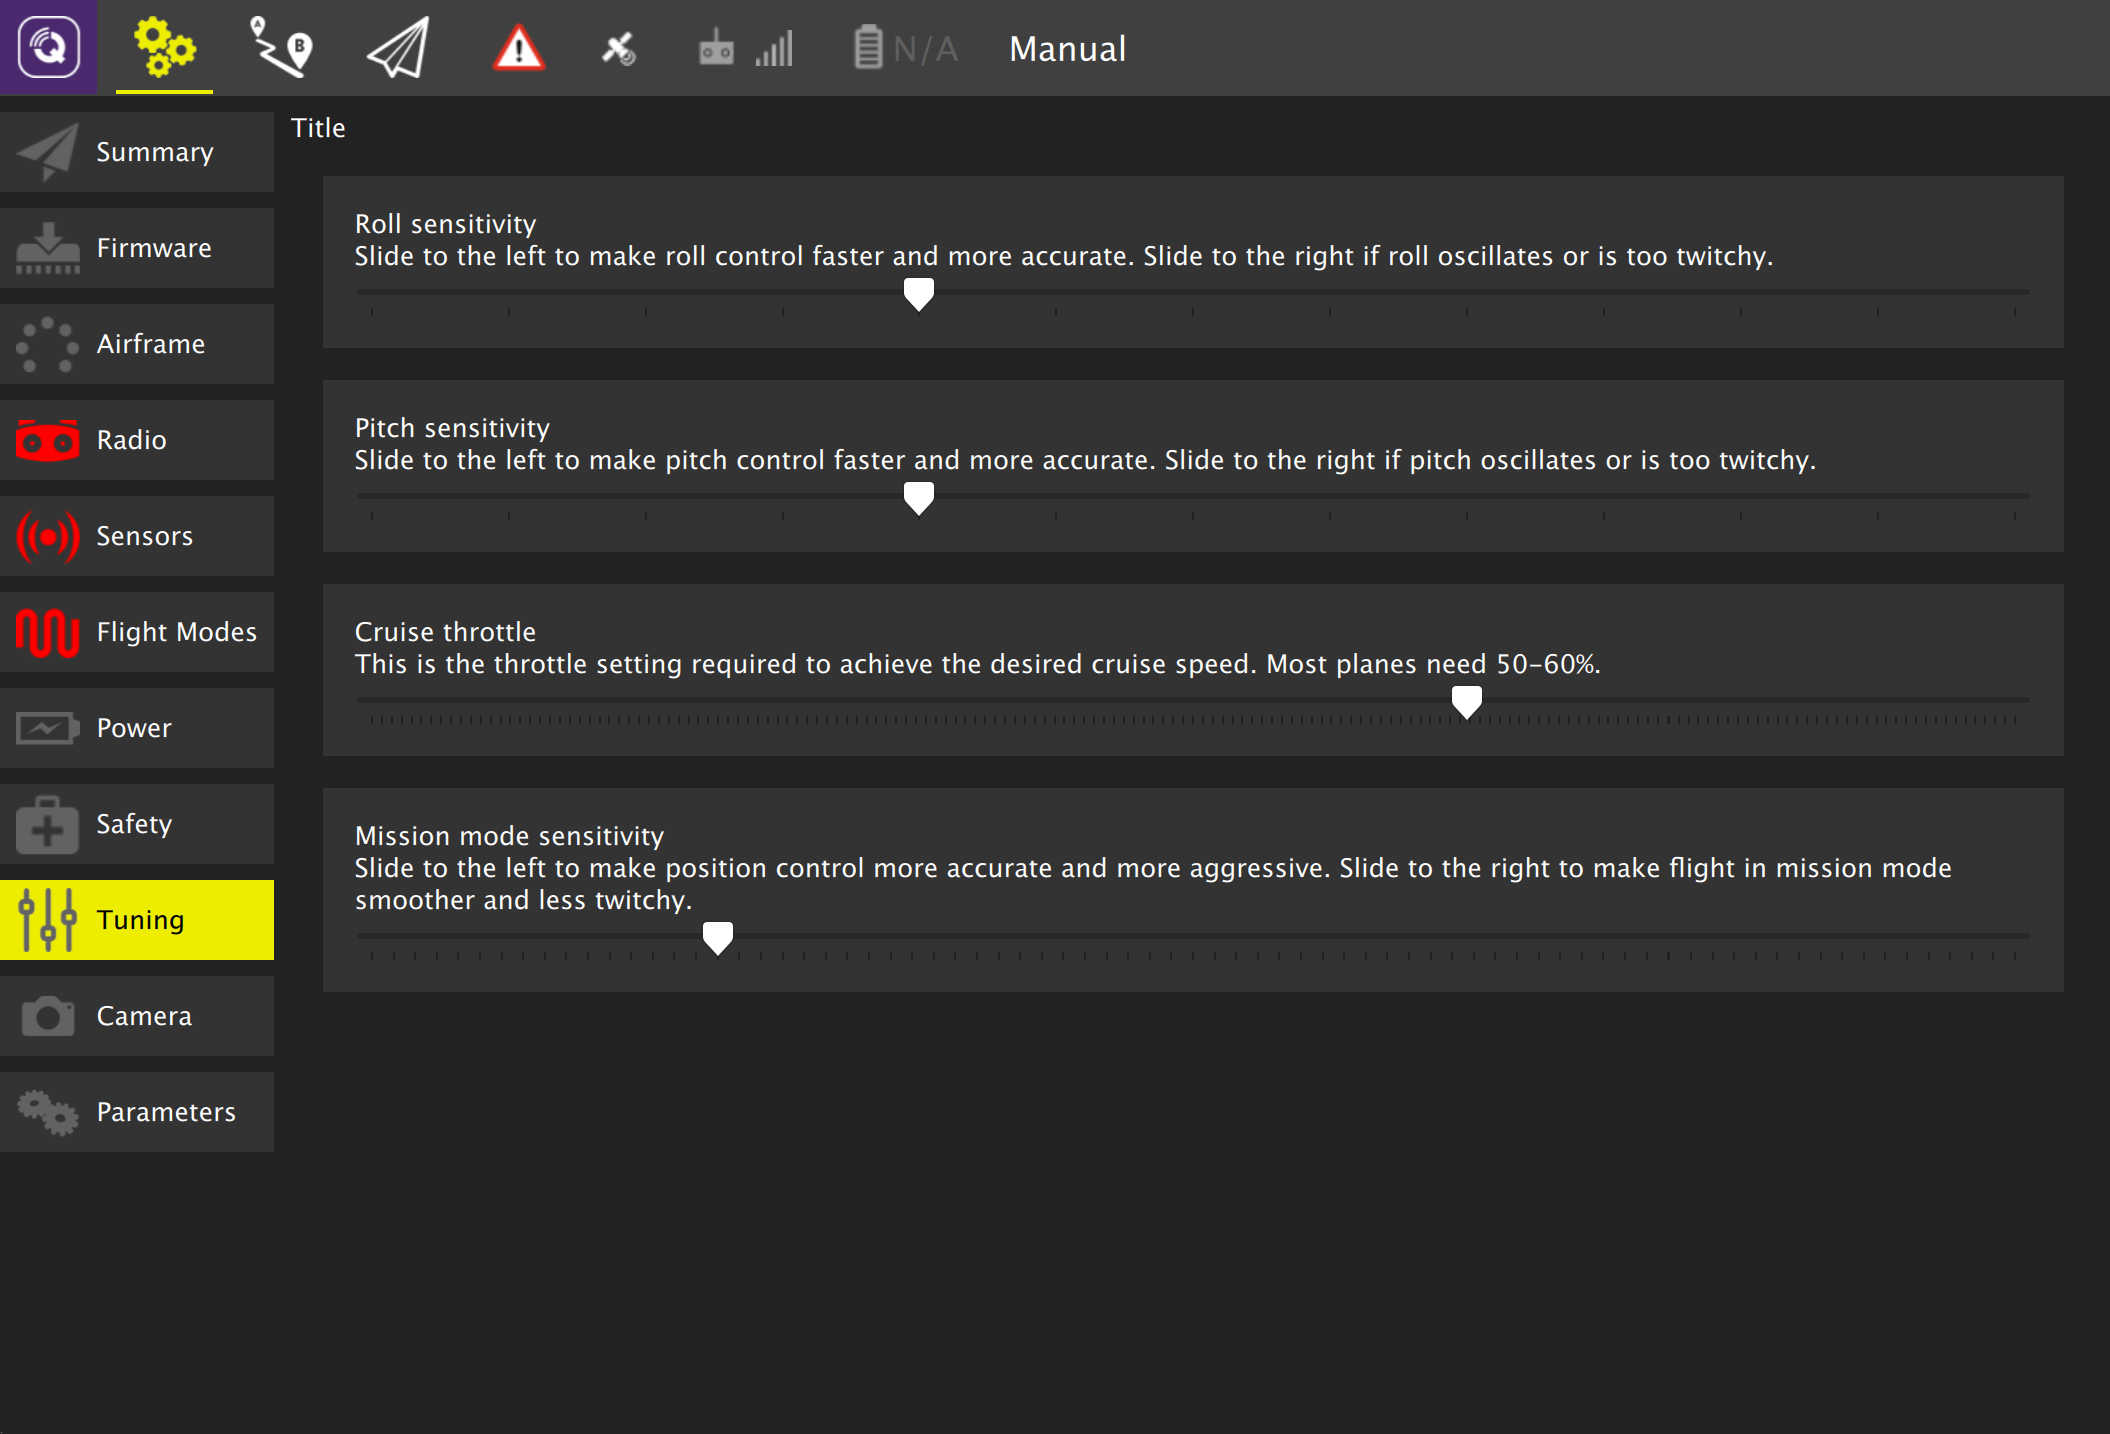
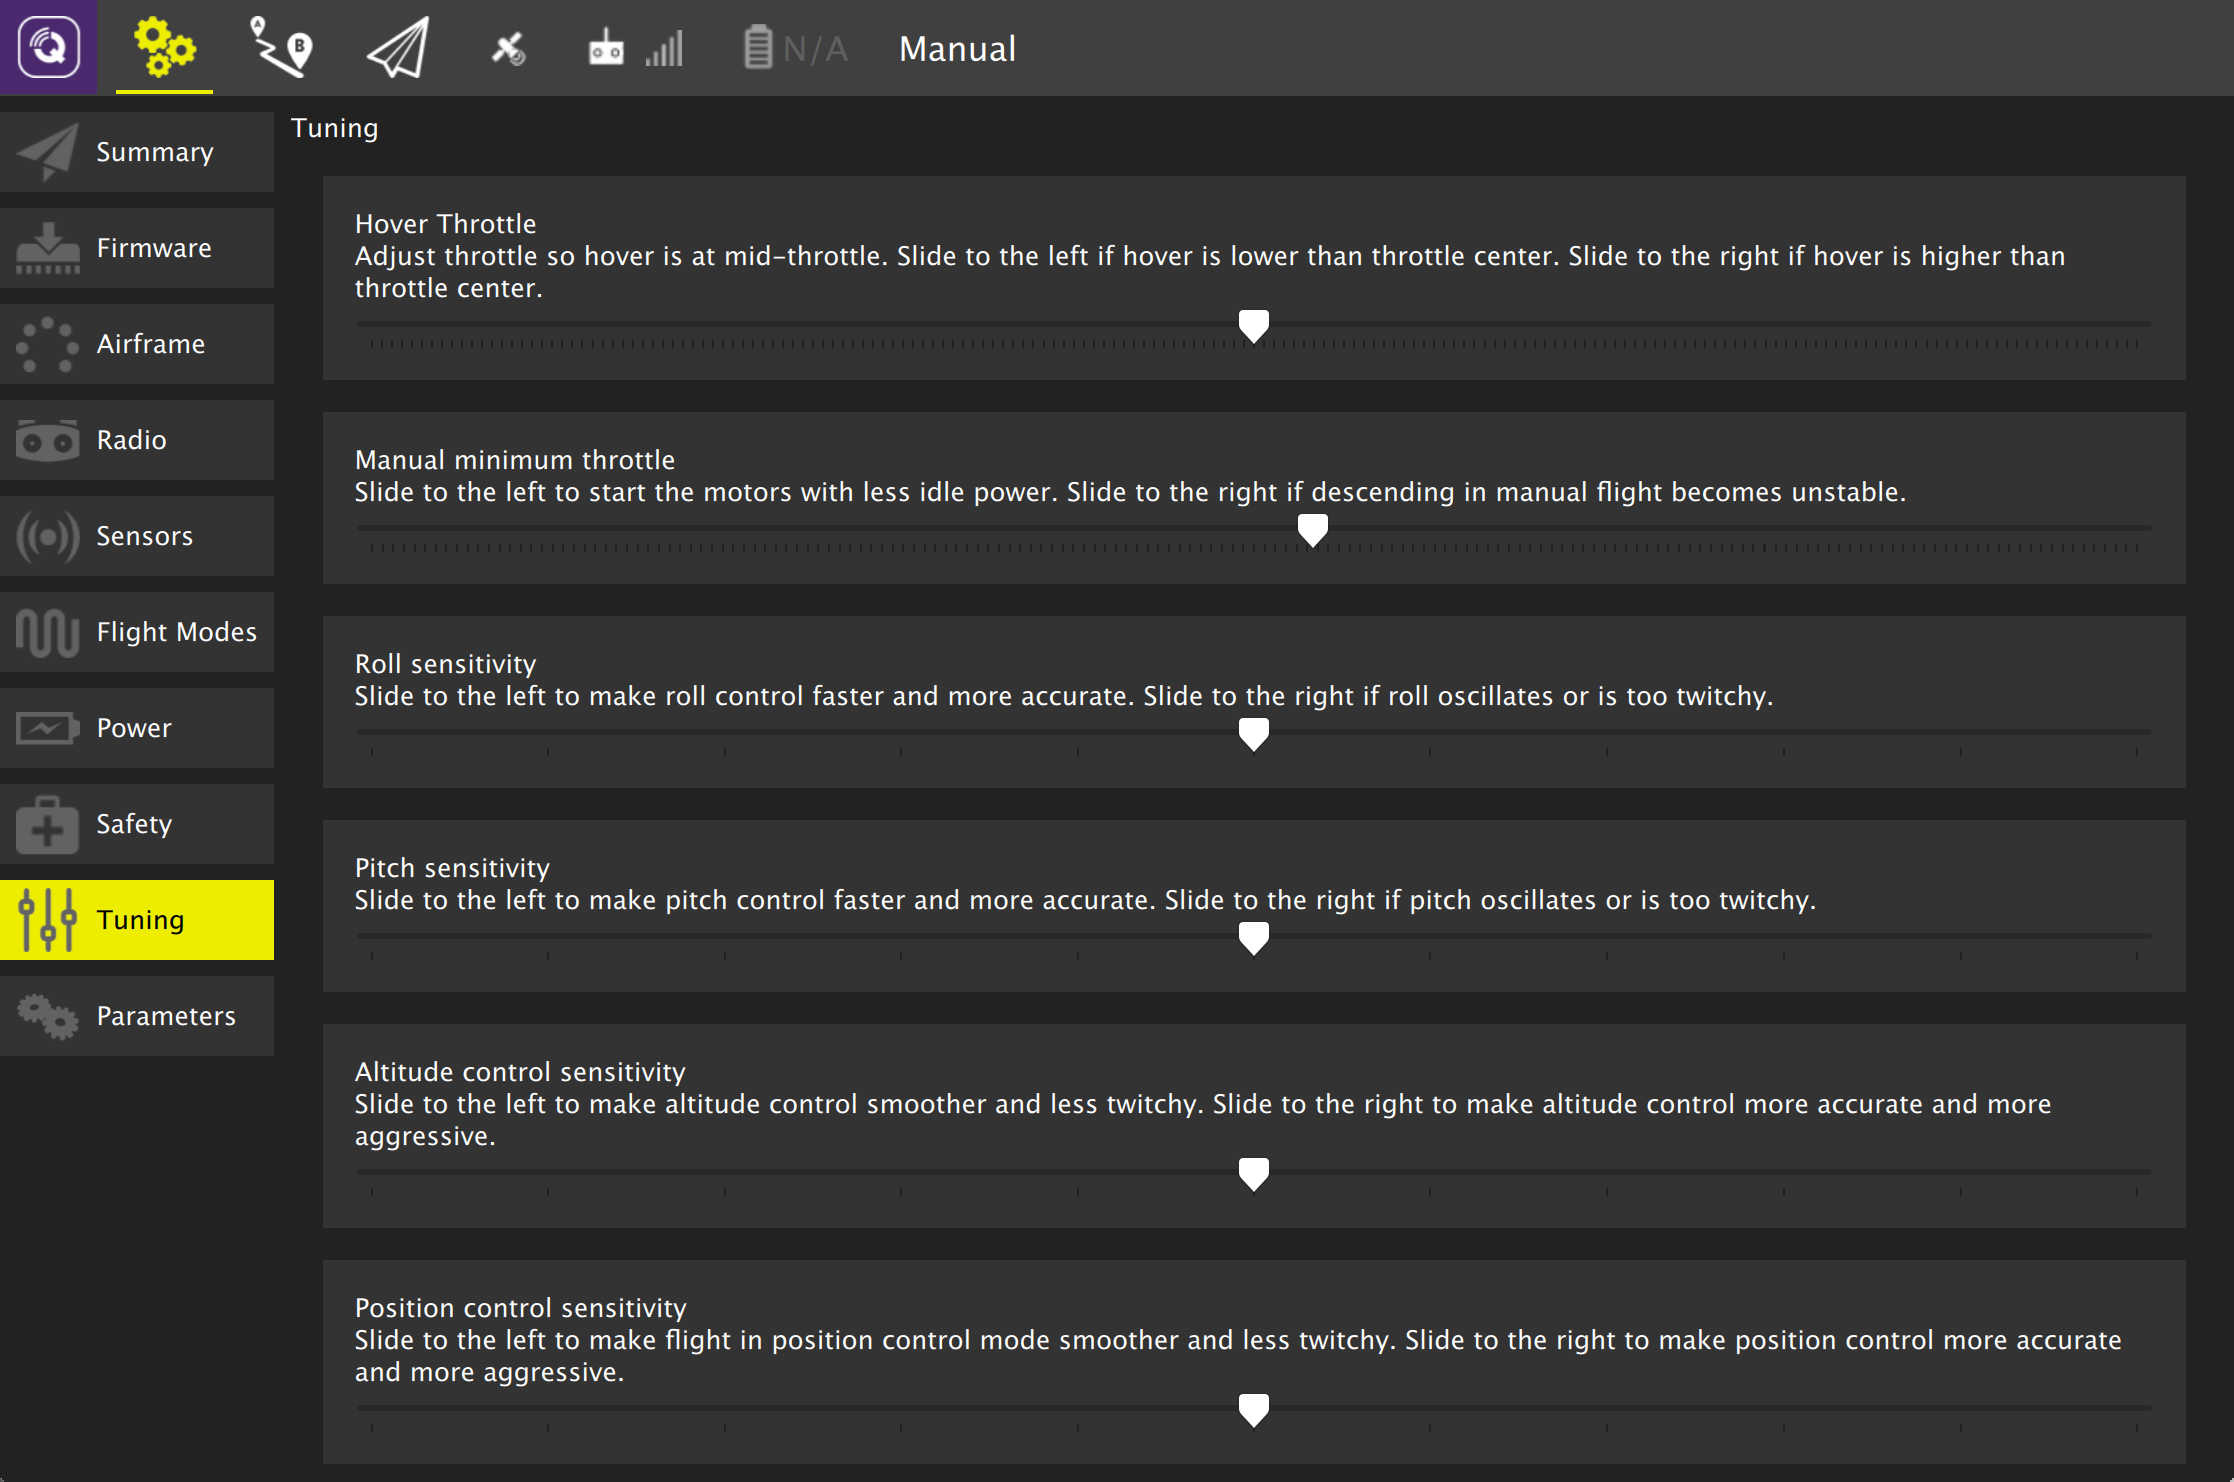
Updates a new additions

diff --git a/SetupView/Tuning.md b/SetupView/Tuning.md
@@ -1,3 +1,41 @@
 # Tuning Setup
 
+This page allows you to configure settings on your vehicle which control basic flight characteristics. The details of the page differ slightly if you are using PX4 Pro firmware or ArduPilot firmware.
+
+### Basic Tuning
+
+A set of Basic Tuning sliders are suppored for both firmwares. They allow you to adjust the specified flight characteristic by moving the slider to the left or right.
+
+## ArduCopter Tuning
+
+![](APMTuningCopter.jpg)
+
+### AutoTune
+
+AutoTune is used to automatically tune the rate parameters in order to provide the highest response without significant overshoot.
+
+Performing an AutoTune:
+
+* Select which axes you would like to tune. Tuning all axes at once can take a significant amount of time which may cause you to run out of battery. In order to prevent this you can select to tune only one axis at a time. 
+* Assign AutoTune to one of your transmitter switches. Ensure that switch is in low position before taking off.
+* Take off and put the copter into AltHold.
+* Turn on AutoTune with your transmitter switch.
+* The copter will twitch around the specified axes for a few minutes.
+* When AutoTune completes the copter will change back to the original settings.
+* Move the AutoTune switch back to low position and then back to high to test the new settings.
+* Move the AutoTune switch to low to test previous settings.
+* To save new settings, land and disarm while AutoTune switch is in high position.
+
+Note:
+
+* Since AutoTune is done in AltHold your copter must already have a tuning which is minimally flyable in AltHold.
+You can cancel AutoTune at any time by moving the AutoTune switch back to low position.
+* You can reposition the copter using your transmitter at any time during AutoTune.
+
+### In Flight Tuning
+
+This is an advanced option which allows you to tune a flight control parameter using one of your transmitter dial channels. Select the control option from the dropdown and specify the min/max for the values to assign to the dial.
+
+## PX4 Copter Tuning
+
 ![](PX4TuningCopter.jpg)

diff --git a/SetupView/Airframe.md b/SetupView/Airframe.md
@@ -1,8 +1,18 @@
 # Airframe Setup
 
-This screen allows you to configure the main airframe selection associated with your vehicle. The details of the screen differ if you are using PX4 Pro firmware or ArduPilot firmware.
+This page allows you to configure the main airframe selection associated with your vehicle. The details of the page differ if you are using PX4 Pro firmware or ArduPilot firmware.
 
-### PX4 Pro Airfame Setup
+## ArduCopter Airfame Setup
+
+![](APMAirframe.jpg)
+
+Select the frame type that matches your vehicle. You can also click "Load common parameters" to load a parameter set for known vehicle types:
+
+![](APMAirframeParams.jpg)
+
+Note: Airframe Setup is only available on ArduCopter vehicles. For other ArduPilot vehicles Airframe Setup will not be shown.
+
+## PX4 Pro Airfame Setup
 
 ![](PX4Airframe.jpg)
 
@@ -10,6 +20,3 @@ Select the specific airframe from the dropdown within the group which best match
 
 After you have selected your airfame, click Apply and Restart. This will prompt you to save the settings and restart to vehicle.
 
-### ArduCopter Airfame Setup
-
-The airframe setup option is only available when using the ArduCopter firmware from ArduPilot.

diff --git a/SetupView/Firmware.md b/SetupView/Firmware.md
@@ -2,9 +2,7 @@
 
 ![](Firmware.jpg)
 
-Firmware is what makes your vehicle run and have all of its great capabilities. Using QGroundControl you can install the latest versions of the firmware of your choice.
-
-QGroundControl is capable of loading firmware onto Pixhawk family autopilot boards, SiK Radios and PX4 Flow devices.
+Using QGroundControl you can install the latest versions of the firmware of your choice. QGroundControl is capable of loading firmware onto Pixhawk family autopilot boards, SiK Radios and PX4 Flow devices.
 
 ### Before you install Firmware [Important]
 

diff --git a/SetupView/Radio.md b/SetupView/Radio.md
@@ -1,7 +1,7 @@
 # Radio Setup
 
 ![](PX4Radio.jpg)
-*Note: Image shown is from PX4 Pro firmware vehicle.*
+*Note: Image shown is from PX4 Pro firmware vehicle. Main Radio Setup is common to both firwares. Additional Radio Setup differs between firmwares.*
 
 Radio Setup is used to configure the mapping of your main attitude control sticks to channels as well as calibrate the settings for all rc channels.
 

diff --git a/SetupView/Parameters.md b/SetupView/Parameters.md
@@ -1,7 +1,7 @@
 # Parameters
 
 ![](PX4Parameters.jpg)
-*Note: This image is from a vehicle running PX4 Pro firmware.*
+*Note: This image is from a vehicle running PX4 Pro firmware. ArduPilot works similary, just the parameter set will differ.*
 
 The Parameters screen allows you to modify any of the parameters associated with the vehicle.
 

diff --git a/SUMMARY.md b/SUMMARY.md
@@ -12,7 +12,6 @@
    * [Sensors](SetupView/Sensors.md)
    * [Flight Modes](SetupView/FlightModes.md)
    * [Power](SetupView/Power.md)
-   * [Motors](SetupView/Motors.md)
    * [Safety](SetupView/Safety.md)
    * [Tuning](SetupView/Tuning.md)
    * [Camera](SetupView/Camera.md)

diff --git a/SetupView/Camera.md b/SetupView/Camera.md
@@ -1,3 +1,11 @@
 # Camera Setup
 
+The details of the page differ if you are using PX4 Pro firmware or ArduPilot firmware.
+
+## ArduPilot Camera Setup
+
+![](APMCamera.jpg)
+
+## PX4 Pro Camera Setup
+
 ![](PX4Camera.jpg)

diff --git a/SetupView/Safety.md b/SetupView/Safety.md
@@ -1,3 +1,5 @@
 # Safety Setup
 
 ![](PX4Safety.jpg)
+
+The Safety Setup page allows you to configure various failsafe settings as well as return home details.
